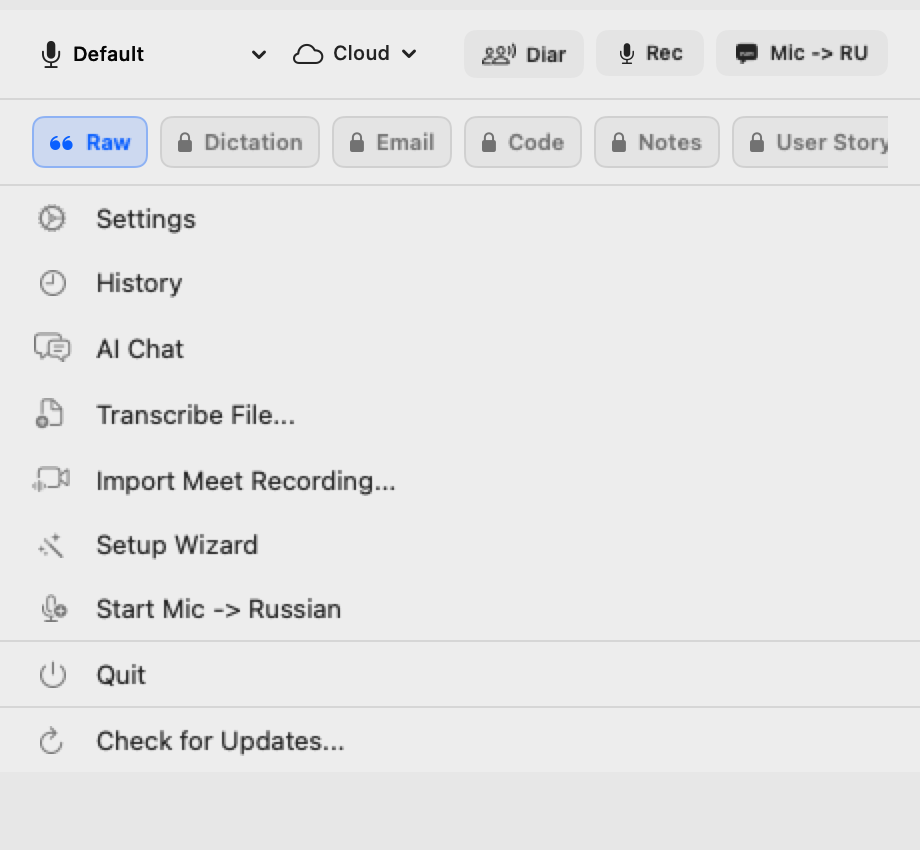
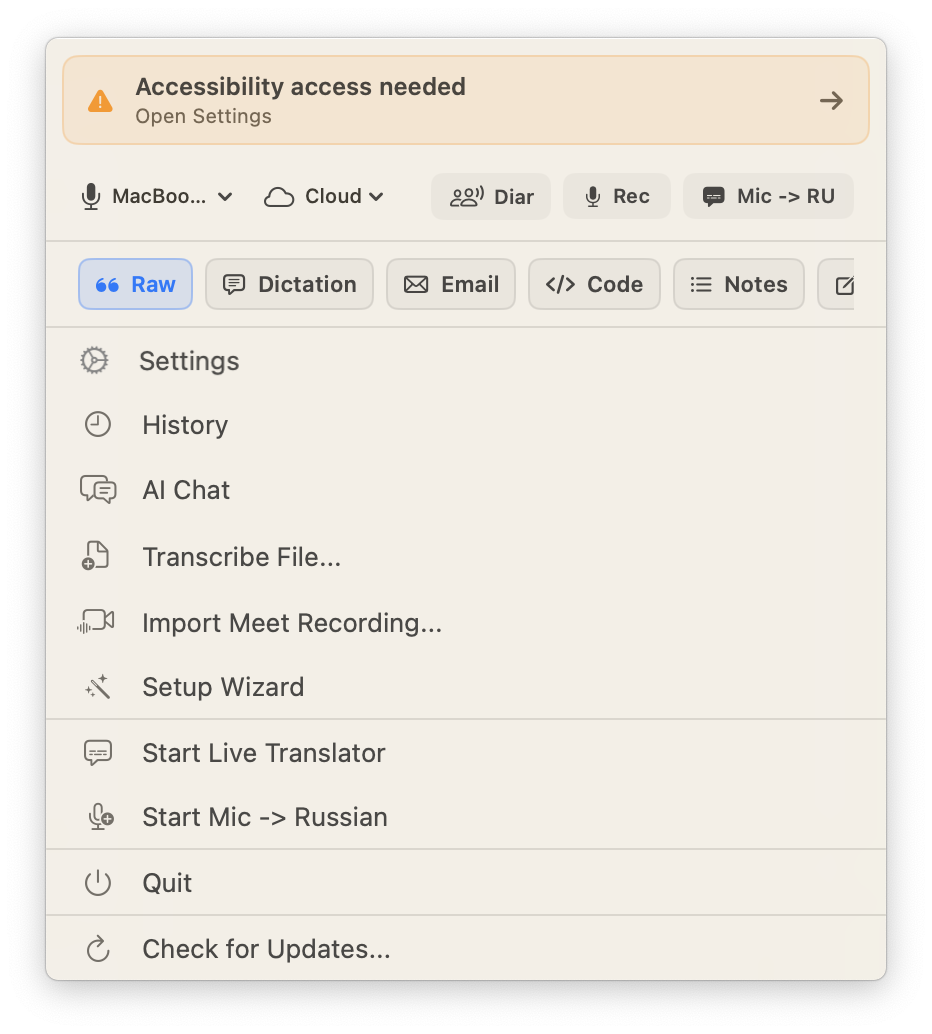
docs: refresh README screenshots

diff --git a/README.md b/README.md
@@ -8,10 +8,21 @@
   <a href="#english">English</a> • <a href="#russian">Русский</a>
 </p>
 
-## Interface Snapshot
+## Interface Tour
 
 <p align="center">
-  <img src="assets/interface-menu.png" alt="WhisperKiller menu interface" width="560">
+  <a href="assets/interface-menu.png">
+    <img src="assets/interface-menu.png" alt="WhisperKiller menu bar controls with transcription modes and quick actions" width="520">
+  </a>
+</p>
+
+<p align="center">
+  <a href="assets/settings.png"><img src="assets/settings.png" alt="WhisperKiller app preferences window" width="410"></a>
+  <a href="assets/meet-calendar.png"><img src="assets/meet-calendar.png" alt="WhisperKiller Meet Calendar import window" width="410"></a>
+</p>
+
+<p align="center">
+  <sub>Preferences · Meet Calendar</sub>
 </p>
 
 ---
